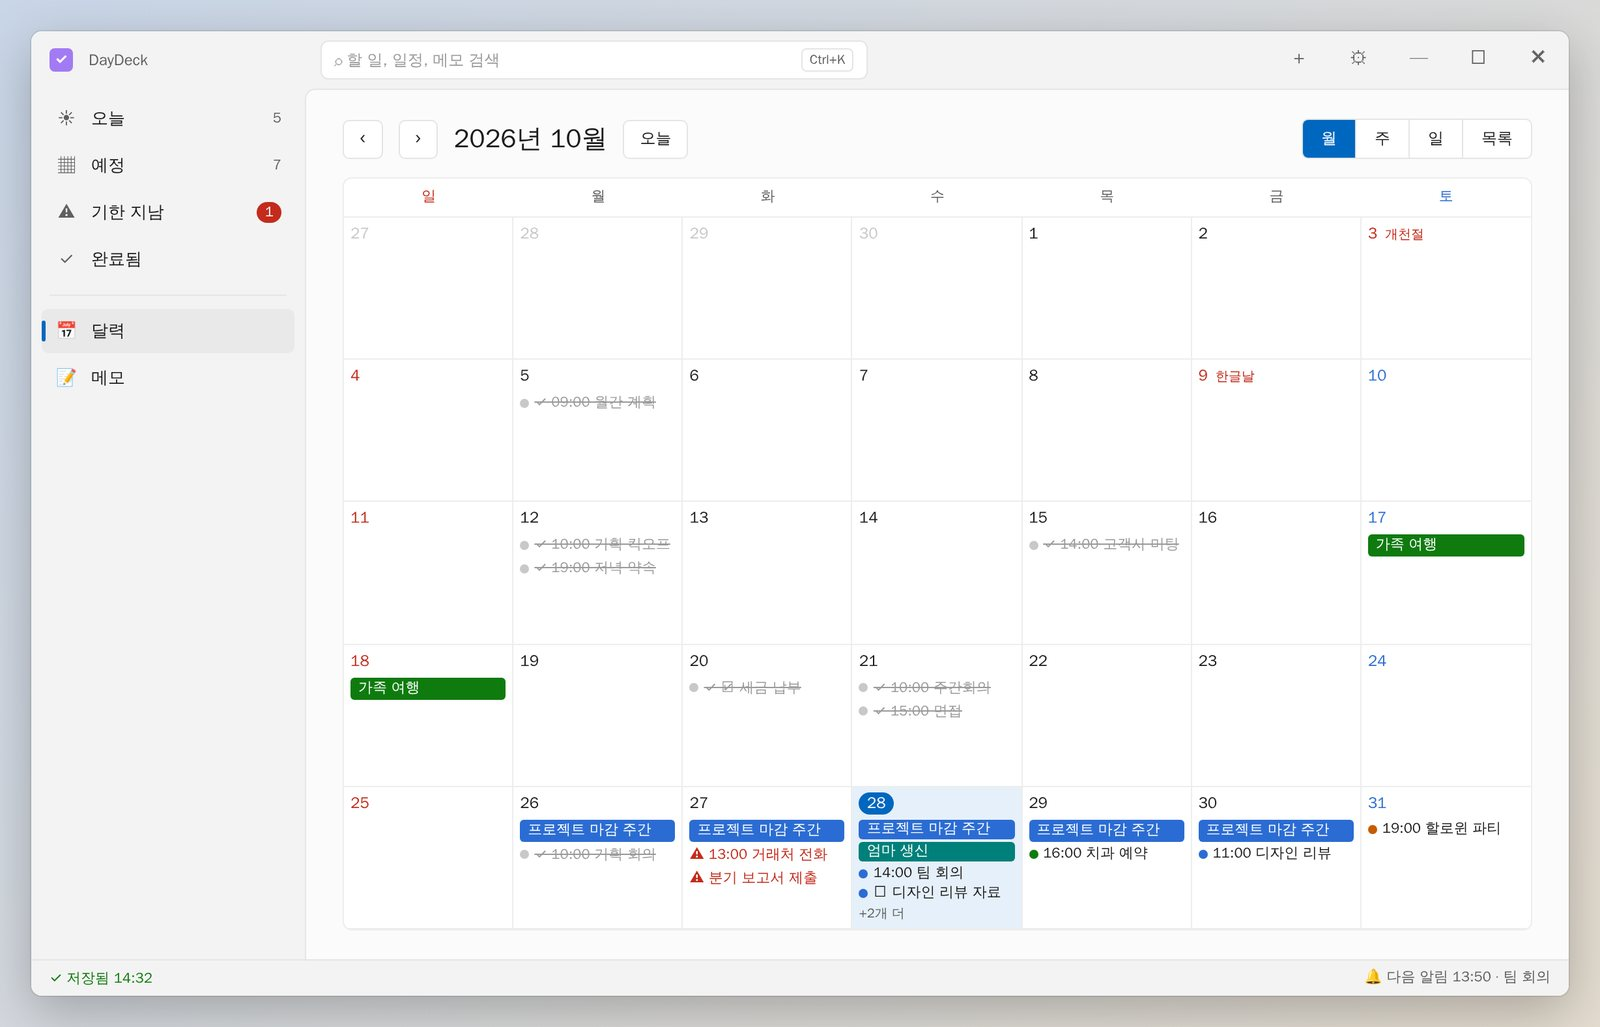
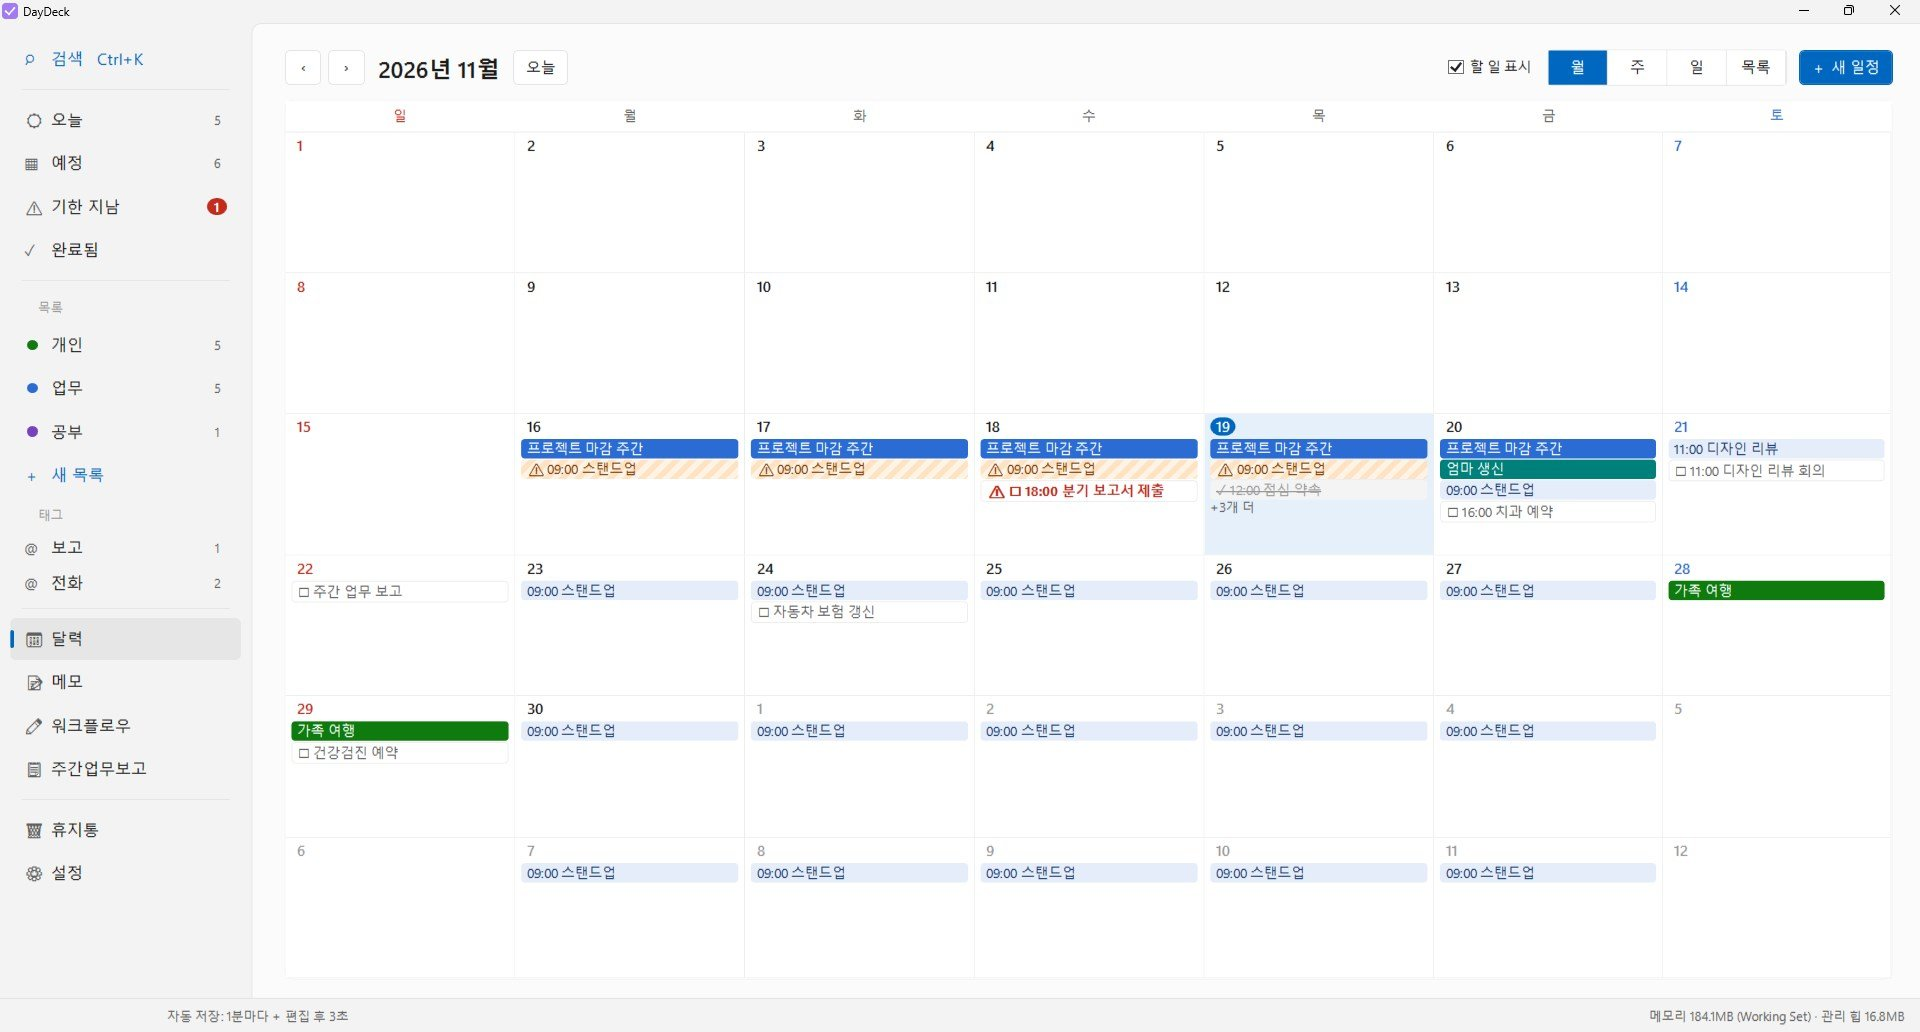
DayDeck 소개 페이지를 실제 스크린샷으로 교체
설계 목업 대신 실제 앱 화면(오늘, 빠른 추가, 할 일 상세, 월 달력, 다크 모드)을 쓴다.
화면이 1920px 전체 화면이라 본문 폭으로 크게 보여 주고, 누르면 원본이 열리게 한다.
빠른 추가는 HTML로 다시 그린 예시 대신 실제 입력 결과 화면을 보여 준다.
Windows 작업 표시줄은 잘라 냈다.

Claude-Session: https://claude.ai/code/session_017MaRDdcWqSr8Fm9WHBTKrq

diff --git a/works/daydeck/index.html b/works/daydeck/index.html
@@ -57,8 +57,10 @@ h3 { font-size: 1.0625rem; font-weight: 700; letter-spacing: -0.01em; }
 .toc a:hover { color: var(--ink); }
 
 /* 히어로 */
-.hero .wrap { display: grid; grid-template-columns: minmax(0, 0.85fr) minmax(0, 1.15fr); gap: clamp(28px, 5vw, 56px); align-items: center; padding-block: clamp(44px, 7vw, 88px); }
-.hero-copy { display: grid; gap: 20px; justify-items: start; }
+/* 실제 화면이 1920px 전체 화면이라 옆에 작게 두지 않고 본문 폭 전체로 보여 준다 */
+.hero .wrap { display: grid; gap: clamp(36px, 5vw, 56px); padding-block: clamp(44px, 7vw, 80px); }
+.hero-copy { display: grid; grid-template-columns: minmax(0, 1fr) minmax(0, 1fr); gap: 20px clamp(28px, 5vw, 64px); align-items: end; }
+.hero-copy > div { display: grid; gap: 18px; justify-items: start; }
 .app-id { display: flex; align-items: center; gap: 14px; }
 .app-id img { width: 64px; height: 64px; }
 .hero h1 { font-size: clamp(3rem, 8vw, 5.25rem); font-weight: 800; letter-spacing: -0.045em; line-height: 1; }
@@ -83,27 +85,8 @@ h3 { font-size: 1.0625rem; font-weight: 700; letter-spacing: -0.01em; }
 .qa-copy ul { display: grid; gap: 8px; color: var(--muted); }
 .qa-copy li { padding-left: 18px; position: relative; }
 .qa-copy li::before { content: ""; position: absolute; left: 0; top: 0.7em; width: 7px; height: 7px; border-radius: 2px; background: var(--violet); }
-.qa-box { background: #fff; border: 1px solid var(--line); border-radius: 14px; box-shadow: 0 20px 44px -28px rgba(40, 20, 90, 0.35); overflow: hidden; }
-.qa-input { display: flex; align-items: center; gap: 12px; padding: 20px 20px 18px; font-size: clamp(1.0625rem, 2.2vw, 1.3125rem); font-weight: 500; min-height: 76px; border-bottom: 1px solid var(--line); }
-.qa-input .plus { color: var(--win-blue); font-size: 1.5rem; line-height: 1; flex: none; }
-.qa-text { display: flex; flex-wrap: wrap; gap: 4px 4px; align-items: center; }
-.qa-text .t { border-radius: 5px; padding: 0 4px; }
-.t.when { background: #e3eefb; color: #1f5fae; }
-.t.repeat { background: #efe8fe; color: #6a3fd6; }
-.t.list { background: #e3f4e6; color: #2d7a3a; }
-.t.pri { background: #fde7e9; color: #b3261e; }
-.t.alarm { background: #f1e7fb; color: #7a3fbf; }
-.t.due { background: #fff1dc; color: #9a5a00; }
-.caret { width: 2px; height: 1.2em; background: var(--ink); margin-left: 2px; }
-@media (prefers-reduced-motion: no-preference) { .caret { animation: blink 1.1s steps(1) infinite; } }
-@keyframes blink { 50% { opacity: 0; } }
-.qa-chips { display: flex; flex-wrap: wrap; gap: 8px; padding: 16px 20px; min-height: 72px; }
-.qa-chips span { display: inline-flex; align-items: center; gap: 6px; padding: 5px 12px; border: 1px solid var(--line); border-radius: 999px; font-size: 0.875rem; background: #fff; }
-.qa-foot { display: flex; flex-wrap: wrap; gap: 8px 16px; padding: 10px 20px; background: #f7f7f9; font-size: 0.8125rem; color: var(--muted); }
-.qa-examples { display: flex; flex-wrap: wrap; gap: 8px; margin-top: 16px; }
-.qa-examples button { font: inherit; font-size: 0.875rem; padding: 6px 14px; border-radius: 999px; border: 1px solid var(--line); background: #fff; color: var(--ink); cursor: pointer; }
-.qa-examples button:hover { border-color: var(--violet); }
-.qa-examples button[aria-pressed="true"] { background: var(--ink); border-color: var(--ink); color: #fff; }
+.qa-shot { display: grid; gap: 10px; }
+.qa-shot img { width: 100%; border-radius: 10px; background: #fff; box-shadow: 0 0 0 1px var(--line), 0 24px 48px -28px rgba(40, 20, 90, 0.45); }
 
 /* 설계 목표 */
 .goals { display: grid; grid-template-columns: repeat(4, minmax(0, 1fr)); gap: 0; border-top: 2px solid var(--ink); }
@@ -115,15 +98,14 @@ h3 { font-size: 1.0625rem; font-weight: 700; letter-spacing: -0.01em; }
 .goals-note { margin-top: 18px; }
 
 /* 화면 */
-.screens { display: grid; gap: clamp(32px, 5vw, 56px); }
-.screen { display: grid; grid-template-columns: minmax(0, 0.42fr) minmax(0, 1fr); gap: clamp(20px, 4vw, 44px); align-items: center; }
-.screen:nth-child(even) { grid-template-columns: minmax(0, 1fr) minmax(0, 0.42fr); }
-.screen:nth-child(even) .cap { order: 2; }
-.screen .cap { display: grid; gap: 8px; }
-.screen .cap p { color: var(--muted); }
-.screen .pic { border-radius: 12px; overflow: hidden; box-shadow: 0 0 0 1px var(--line), 0 18px 40px -26px rgba(40, 20, 90, 0.4); }
-.screen.wide { grid-template-columns: minmax(0, 1fr); }
-.screen.wide .cap { max-width: 40em; }
+.screens { display: grid; gap: clamp(40px, 6vw, 72px); }
+.screen { display: grid; grid-template-columns: minmax(0, 0.32fr) minmax(0, 1fr); gap: 8px clamp(20px, 4vw, 48px); align-items: end; }
+.screen .cap { display: contents; }
+.screen .cap h3 { font-size: 1.25rem; }
+.screen .cap p { color: var(--muted); max-width: 40em; }
+.screen .pic { grid-column: 1 / -1; margin-top: 12px; display: block; border-radius: 12px; overflow: hidden; box-shadow: 0 0 0 1px var(--line), 0 24px 48px -28px rgba(40, 20, 90, 0.45); cursor: zoom-in; }
+.screen .pic img { width: 100%; }
+.zoom-hint { margin-top: 18px; }
 
 /* 기능 */
 .features { display: grid; grid-template-columns: repeat(3, minmax(0, 1fr)); gap: 14px; }
@@ -166,8 +148,8 @@ footer .wrap { padding-block: 28px; display: flex; justify-content: space-betwee
   .goals { grid-template-columns: repeat(2, minmax(0, 1fr)); }
   .goal:nth-child(3) { border-left: 0; padding-left: 0; }
   .features, .build { grid-template-columns: repeat(2, minmax(0, 1fr)); }
-  .screen, .screen:nth-child(even) { grid-template-columns: minmax(0, 1fr); }
-  .screen:nth-child(even) .cap { order: 0; }
+  .screen { grid-template-columns: minmax(0, 1fr); }
+  .hero-copy { grid-template-columns: minmax(0, 1fr); align-items: start; }
   .track { grid-template-columns: minmax(0, 1fr); gap: 18px; }
   .track::before { left: 7px; right: auto; top: 0; bottom: 0; width: 2px; height: auto; }
   .stage { padding: 0 0 0 32px; }
@@ -201,12 +183,15 @@ footer .wrap { padding-block: 28px; display: flex; justify-content: space-betwee
   <section class="hero">
     <div class="wrap">
       <div class="hero-copy">
+        <div>
         <div class="app-id">
           <img src="img/icon.png" alt="DayDeck 아이콘">
           <p class="eyebrow">Windows 11 데스크톱 앱</p>
         </div>
         <h1>DayDeck</h1>
         <p class="tagline">할 일, 일정, 메모, 알림을<br>트레이 하나에서.</p>
+        </div>
+        <div>
         <p class="lead">해야 할 일을 잊지 않게 하는 것이 목표입니다. 어디서나 단축키로 2초 안에 적고, 정해진 시각에 확실히 알립니다. 절전이나 재부팅으로 놓친 알림도 다시 보여 줍니다.</p>
         <div class="cta">
           <a class="btn store" href="https://apps.microsoft.com/detail/9NMBVQZ9X7NG?hl=ko-kr&amp;gl=KR" target="_blank" rel="noopener">
@@ -219,9 +204,10 @@ footer .wrap { padding-block: 28px; display: flex; justify-content: space-betwee
           </a>
         </div>
         <p class="facts"><span>Windows 10 · 11</span><span>계정 없이 로컬 저장</span><span>버전 0.9.1</span></p>
+        </div>
       </div>
       <figure class="hero-shot">
-        <img src="img/today.jpg" width="1600" height="1027" alt="DayDeck 오늘 화면: 기한 지난 일, 해야 할 일, 완료한 일이 나뉘어 보이고 위쪽에 오늘 진행률이 표시된다">
+        <img src="img/today.jpg" width="1920" height="1032" alt="DayDeck 오늘 화면: 오늘 일정, 기한 지난 일, 해야 할 일, 완료한 일이 나뉘어 보이고 위쪽에 오늘 진행률이 표시된다">
       </figure>
     </div>
   </section>
@@ -235,17 +221,13 @@ footer .wrap { padding-block: 28px; display: flex; justify-content: space-betwee
         <p class="lead">어떤 프로그램을 쓰다가도 단축키로 빠른 추가 창을 엽니다. 한국어 문장에서 날짜와 시각, 반복, 목록, 중요도, 알림을 찾아 각 칸에 채웁니다.</p>
         <ul>
           <li>한국어 자연어 파서를 직접 만들고 126개 문장으로 테스트</li>
-          <li><kbd>Enter</kbd>로 바로 저장, <kbd>Tab</kbd>으로 상세 입력</li>
+          <li><kbd>Enter</kbd> 저장, <kbd>Ctrl</kbd>+<kbd>Enter</kbd> 저장 후 계속 입력, <kbd>Tab</kbd> 저장 후 자세히</li>
         </ul>
       </div>
-      <div>
-        <div class="qa-box" aria-live="polite">
-          <div class="qa-input"><span class="plus" aria-hidden="true">+</span><span class="qa-text" id="qa-text"></span></div>
-          <div class="qa-chips" id="qa-chips"></div>
-          <div class="qa-foot"><span><kbd>Enter</kbd> 저장</span><span><kbd>Tab</kbd> 상세 입력</span><span><kbd>Esc</kbd> 취소</span></div>
-        </div>
-        <div class="qa-examples" role="group" aria-label="입력 예시 고르기" id="qa-examples"></div>
-      </div>
+      <figure class="qa-shot">
+        <img src="img/quickadd.jpg" width="770" height="206" alt="빠른 추가 창. '내일 오후 3시 치과 #개인 30분 전 알림'을 입력하자 날짜·시각, 목록, 알림 부분이 색으로 구분되고, 아래에 '일정 · 내일 15:00–16:00 · 30분 전 · #개인, 제목: 치과'로 풀어서 보여 준다">
+        <figcaption class="note">실제 화면 · "내일 오후 3시 치과 #개인 30분 전 알림"을 입력했을 때</figcaption>
+      </figure>
     </div>
   </section>
 
@@ -270,27 +252,23 @@ footer .wrap { padding-block: 28px; display: flex; justify-content: space-betwee
     <div class="wrap section">
       <div class="head">
         <p class="eyebrow">주요 화면</p>
-        <h2>오늘 할 일부터 메모까지 한 창에서</h2>
+        <h2>할 일과 일정을 한 창에서</h2>
       </div>
       <div class="screens">
         <figure class="screen">
-          <figcaption class="cap"><h3>주 달력</h3><p>시간 일정과 종일 일정을 한 주 단위로 봅니다. 끌어서 시간을 옮기고, 반복 일정과 한국 공휴일, 음력도 표시합니다.</p></figcaption>
-          <div class="pic"><img src="img/week.jpg" width="1600" height="1027" loading="lazy" alt="주 달력 화면"></div>
+          <figcaption class="cap"><h3>할 일 상세</h3><p>할 일을 누르면 목록은 그대로 두고 오른쪽에 상세가 열립니다. 마감, 우선순위, 목록, 반복, 태그를 정하고, 아래 메모는 서식이 적용된 모양 그대로 고칩니다.</p></figcaption>
+          <a class="pic" href="img/detail.jpg" target="_blank" rel="noopener" title="원본 크기로 보기"><img src="img/detail.jpg" width="1920" height="1032" loading="lazy" alt="오늘 목록에서 '디자인 리뷰 자료 준비'를 열어 마감, 우선순위, 목록, 반복, 태그, 메모를 편집하는 화면"></a>
         </figure>
         <figure class="screen">
-          <figcaption class="cap"><h3>월 달력</h3><p>한 달 일정을 한눈에 보고, 일·주·월·목록 보기로 바꿔 가며 씁니다.</p></figcaption>
-          <div class="pic"><img src="img/month.jpg" width="1600" height="1027" loading="lazy" alt="월 달력 화면"></div>
+          <figcaption class="cap"><h3>달력</h3><p>월·주·일·목록 보기로 일정을 봅니다. 여러 날에 걸친 종일 일정과 반복 일정, 마감이 있는 할 일을 함께 표시하고, 기한이 지난 일은 경고로 알립니다.</p></figcaption>
+          <a class="pic" href="img/month.jpg" target="_blank" rel="noopener" title="원본 크기로 보기"><img src="img/month.jpg" width="1920" height="1032" loading="lazy" alt="2026년 11월 월 달력. 프로젝트 마감 주간, 매일 스탠드업, 가족 여행 같은 일정과 할 일이 날짜별로 표시된다"></a>
         </figure>
         <figure class="screen">
-          <figcaption class="cap"><h3>메모</h3><p>폴더와 탭으로 정리하고, 메모 속 체크 항목을 바로 할 일로 만듭니다. 메모는 마크다운(.md) 파일 그대로 저장되어 VS Code나 Obsidian에서도 열립니다.</p></figcaption>
-          <div class="pic"><img src="img/notes.jpg" width="1600" height="1027" loading="lazy" alt="메모 화면"></div>
-        </figure>
-        <figure class="screen wide">
-          <figcaption class="cap"><h3>창을 열지 않아도</h3><p>바탕화면 위젯에서 오늘 할 일을 체크하고, 트레이 메뉴로 빠르게 추가합니다. 알림에서 바로 완료하거나 미룰 수 있고, 절전에서 깨어나면 놓친 알림을 모아 보여 줍니다.</p></figcaption>
-          <div class="pic"><img src="img/desktop.jpg" width="1600" height="1027" loading="lazy" alt="바탕화면 위젯, 빠른 추가 창, 알림, 트레이 메뉴, 놓친 알림이 함께 보이는 Windows 바탕화면"></div>
+          <figcaption class="cap"><h3>다크 모드</h3><p>테마와 글자 크기를 바꾸면 모든 창이 함께 맞춰집니다.</p></figcaption>
+          <a class="pic" href="img/dark.jpg" target="_blank" rel="noopener" title="원본 크기로 보기"><img src="img/dark.jpg" width="1920" height="1032" loading="lazy" alt="다크 모드로 본 오늘 화면"></a>
         </figure>
       </div>
-      <p class="note" style="margin-top:20px">화면은 설계 단계에 그린 목업이며, 실제 앱과 세부가 다를 수 있습니다.</p>
+      <p class="note zoom-hint">화면을 누르면 원본 크기로 열립니다.</p>
     </div>
   </section>
 
@@ -309,7 +287,7 @@ footer .wrap { padding-block: 28px; display: flex; justify-content: space-betwee
       <li class="feat"><span class="ic" aria-hidden="true">📌</span><h3>스티커 메모</h3><p>메모를 바탕화면에 붙여 두면 위치와 색이 다음 실행 때도 그대로입니다.</p></li>
       <li class="feat"><span class="ic" aria-hidden="true">🕘</span><h3>메모 기록</h3><p>10분마다 예전 내용을 남겨 두어 언제든 이전 버전으로 되돌립니다.</p></li>
       <li class="feat"><span class="ic" aria-hidden="true">📅</span><h3>ICS 가져오기·내보내기</h3><p>다른 달력의 일정을 가져오고, CSV로도 내보냅니다.</p></li>
-      <li class="feat"><span class="ic" aria-hidden="true">🌙</span><h3>다크 모드와 글자 크기</h3><p>테마와 글자 크기를 바꾸면 모든 창이 함께 맞춰집니다.</p></li>
+      <li class="feat"><span class="ic" aria-hidden="true">🖥</span><h3>위젯과 트레이</h3><p>창을 열지 않아도 바탕화면 위젯과 트레이 메뉴에서 오늘 할 일을 체크하고 바로 추가합니다.</p></li>
     </ul>
   </section>
 
@@ -381,45 +359,5 @@ footer .wrap { padding-block: 28px; display: flex; justify-content: space-betwee
   </div>
 </footer>
 
-<script>
-(function () {
-  // 빠른 추가 예시: 문장 조각과 그 조각이 채우는 칸
-  var EXAMPLES = [
-    { label: "치과 예약",
-      parts: [["내일 오후 3시", "when"], ["치과"], ["#개인", "list"], ["!높음", "pri"], ["30분 전 알림", "alarm"]],
-      chips: ["📅 내일 15:00", "📋 개인", "!!! 높음", "🔔 30분 전"] },
-    { label: "주간회의",
-      parts: [["매주", "repeat"], ["월요일 오전 9시", "when"], ["주간회의"], ["#업무", "list"], ["!높음", "pri"], ["10분전 알림", "alarm"]],
-      chips: ["🔁 매주 반복", "🕘 월 09:00", "📋 업무", "!!! 높음", "🔔 10분 전"] },
-    { label: "주간보고",
-      parts: [["매주", "repeat"], ["금요일까지", "due"], ["주간보고"]],
-      chips: ["🔁 매주 반복", "⏰ 금요일까지"] }
-  ];
-  var text = document.getElementById("qa-text");
-  var chips = document.getElementById("qa-chips");
-  var group = document.getElementById("qa-examples");
-
-  function show(i) {
-    var ex = EXAMPLES[i];
-    text.innerHTML = ""; chips.innerHTML = "";
-    ex.parts.forEach(function (p) {
-      var s = document.createElement("span");
-      s.textContent = p[0];
-      if (p[1]) s.className = "t " + p[1];
-      text.appendChild(s);
-    });
-    var c = document.createElement("span"); c.className = "caret"; c.setAttribute("aria-hidden", "true"); text.appendChild(c);
-    ex.chips.forEach(function (t) { var s = document.createElement("span"); s.textContent = t; chips.appendChild(s); });
-    Array.prototype.forEach.call(group.children, function (b, j) { b.setAttribute("aria-pressed", String(i === j)); });
-  }
-  EXAMPLES.forEach(function (ex, i) {
-    var b = document.createElement("button");
-    b.type = "button"; b.textContent = ex.label;
-    b.addEventListener("click", function () { show(i); });
-    group.appendChild(b);
-  });
-  show(0);
-})();
-</script>
 </body>
 </html>
